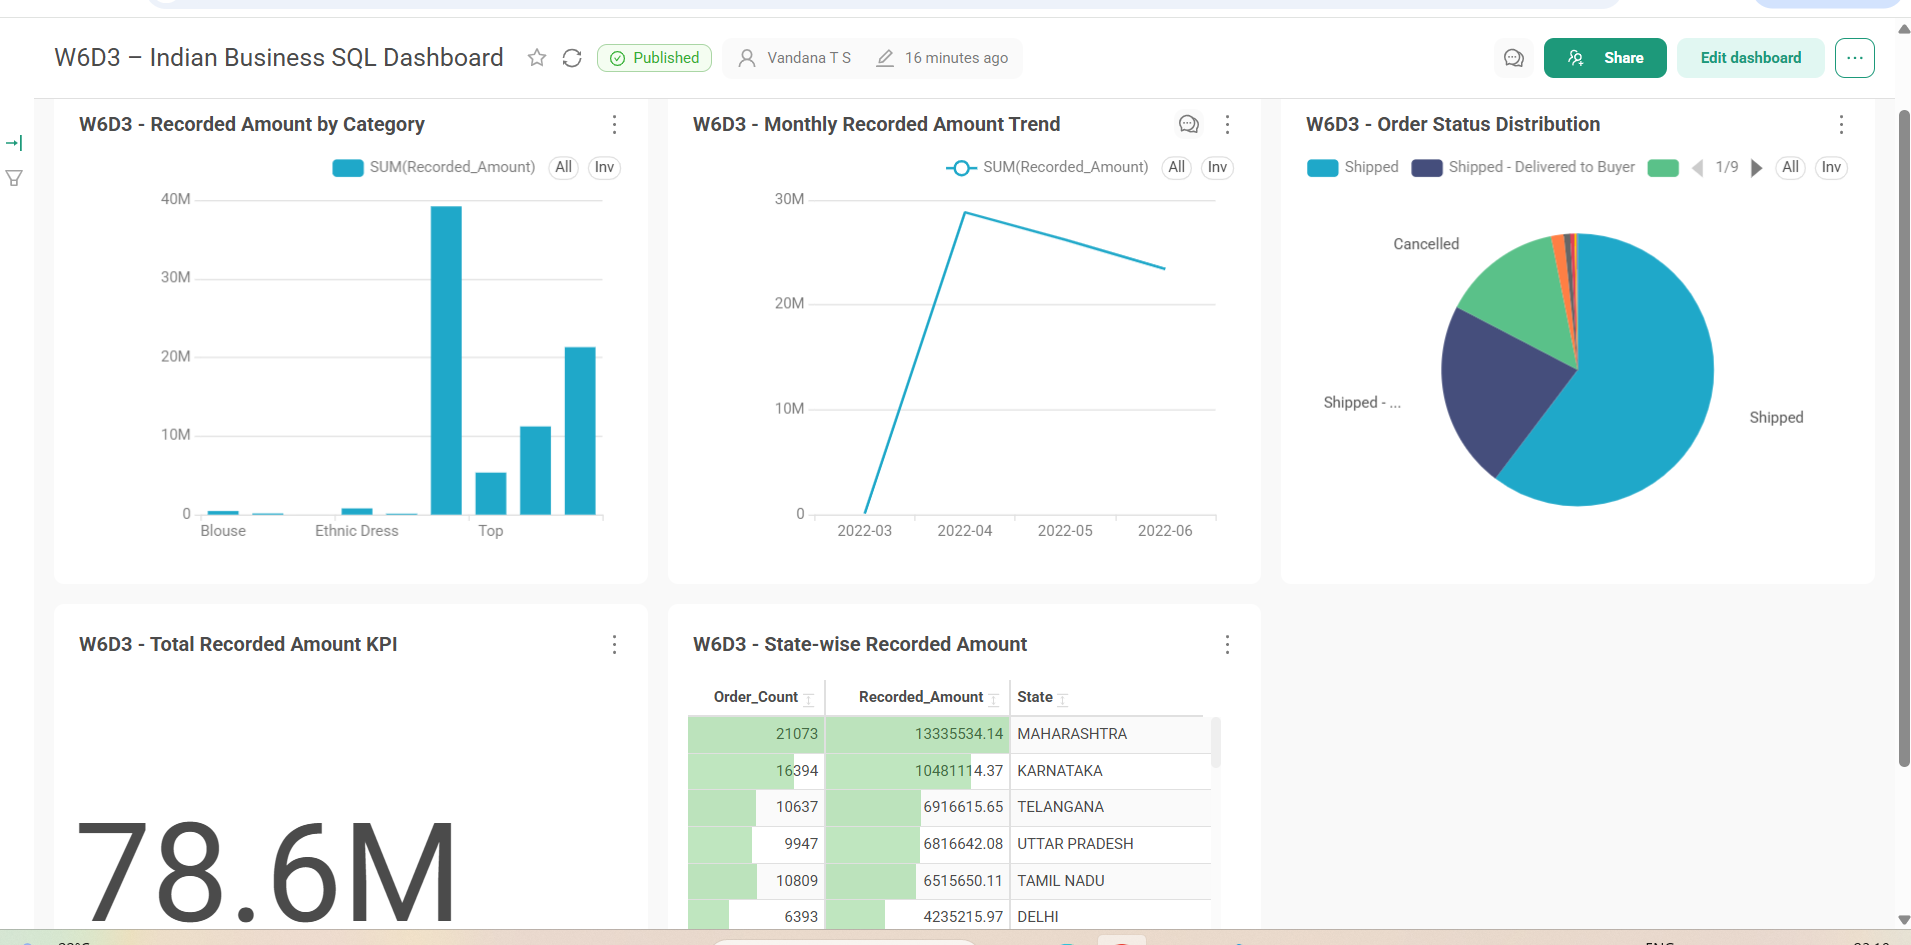
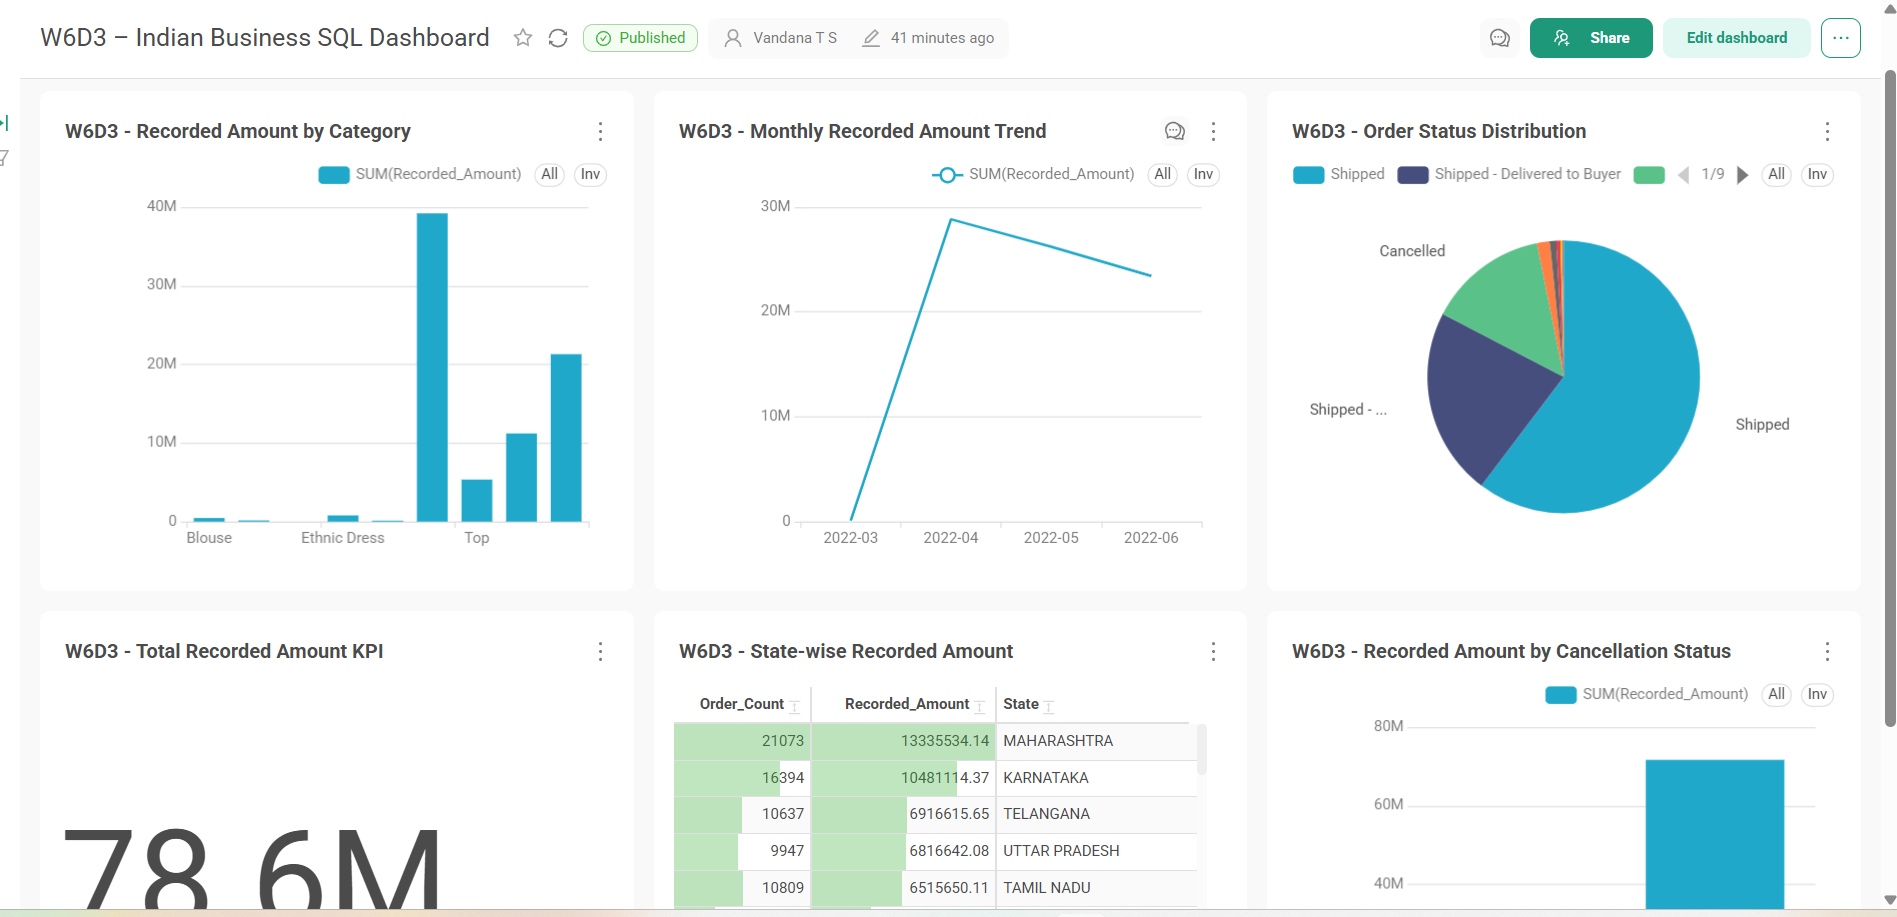
docs: update W6D3 Superset dashboard evidence

diff --git a/reports/w6d3/README.md b/reports/w6d3/README.md
@@ -4,7 +4,7 @@
 
 Create a stakeholder-facing Business Intelligence dashboard using SQL-aggregated Indian business sales data and Apache Superset through the hosted Preset platform.
 
-The dashboard presents key business metrics and trends through five visualizations.
+The dashboard presents key business metrics and trends through six visualizations.
 
 ## 2. Dataset Overview
 
@@ -22,8 +22,9 @@ The SQL workflow is implemented using:
 
 - `reports/w6d3/sql_dashboard.py`
 - `reports/w6d3/dashboard_queries.sql`
+- `reports/w6d3/cancellation_analysis.sql` (supplementary analysis)
 
-The Python script executes the SQL aggregation queries, exports dashboard-ready CSV files and validates the results.
+The Python script executes the original SQL aggregation queries, exports dashboard-ready CSV files and validates the results. The cancellation analysis was generated separately and does not modify the original Python pipeline.
 
 ### Run the SQL workflow
 
@@ -36,7 +37,7 @@ $root = "$HOME\Desktop\sql-fundamentals"
 
 ### Generated CSV datasets
 
-The following files are generated in `reports/w6d3/outputs/`:
+The original workflow generates:
 
 | File | Purpose |
 |---|---|
@@ -46,9 +47,13 @@ The following files are generated in `reports/w6d3/outputs/`:
 | `kpi_metrics.csv` | Overall Recorded Amount KPI |
 | `state_amount.csv` | State-wise Recorded Amount |
 
+Supplementary output:
+
+- `cancellation_analysis.csv` - Cancelled vs non-cancelled recorded amounts and missing Amount values.
+
 ## 4. SQL Validation Results
 
-The SQL workflow completed successfully.
+The original SQL workflow completed successfully.
 
 | Validation | Result |
 |---|---:|
@@ -72,7 +77,16 @@ The SQL workflow completed successfully.
 | State | 69 |
 | KPI | 1 |
 
-**Validation status:** PASS - all expected dataset checks succeeded.
+**Original workflow validation:** PASS.
+
+### Supplementary cancellation analysis
+
+| Order group | Rows | Recorded Amount (INR) | Missing Amount rows |
+|---|---:|---:|---:|
+| Cancelled | 18,332 | 6,919,284.30 | 7,566 |
+| Non-Cancelled | 110,643 | 71,673,394.00 | 229 |
+
+These figures group the source records by cancellation status. Non-cancelled Recorded Amount is not verified revenue.
 
 ## 5. Hosted Apache Superset Dashboard
 
@@ -86,13 +100,14 @@ https://de37bc60.us1a.app.preset.io/superset/dashboard/10/?native_filters_key=M9
 
 ### Uploaded datasets
 
-Five separate datasets were uploaded using unique W6D3 prefixes to avoid conflicts with existing W11D3 datasets.
+Six datasets were uploaded using unique W6D3 prefixes:
 
 - `w6d3_category_amount`
 - `w6d3_monthly_amount`
 - `w6d3_order_status`
 - `w6d3_kpi_metrics`
 - `w6d3_state_amount`
+- `w6d3_cancellation_analysis`
 
 ### Dashboard visualizations
 
@@ -103,59 +118,65 @@ Five separate datasets were uploaded using unique W6D3 prefixes to avoid conflic
 | Order Status Distribution | Pie chart | `w6d3_order_status` | SUM(Order_Count) |
 | Total Recorded Amount KPI | Big Number | `w6d3_kpi_metrics` | MAX(Recorded_Amount_Total) |
 | State-wise Recorded Amount | Table | `w6d3_state_amount` | State-level records |
+| Recorded Amount by Cancellation Status | Bar chart | `w6d3_cancellation_analysis` | SUM(Recorded_Amount) |
 
-The monthly chart uses ascending month order. The KPI uses MAX because the summary dataset contains one row. The state table displays State, Order_Count and Recorded_Amount.
+The monthly chart uses ascending month order. The KPI uses MAX because the summary dataset contains one row.
 
 ## 6. Evidence
 
 The following evidence files are maintained in `reports/w6d3/outputs/`:
 
-- `W6D3_Preset_Indian_Business_SQL_Dashboard.png` - hosted Preset dashboard screenshot.
+- `W6D3_Preset_Indian_Business_SQL_Dashboard.png` - updated hosted Preset dashboard screenshot showing six charts.
 - `looker_studio_dashboard.png` - existing Looker Studio dashboard image.
+- `cancellation_analysis.csv` - supplementary cancellation analysis output.
+
+Additional SQL evidence:
+
+- `reports/w6d3/cancellation_analysis.sql`
 
 The Preset screenshot was captured using Windows Snipping Tool.
 
 ## 7. Business Interpretation
 
-The dashboard provides an overview of recorded sales amounts across categories, months, order statuses and states.
-
-Key observations:
-
 - The dataset contains 128,975 source records.
-- Recorded Amount totals INR 78,592,678.30 for rows with available Amount values.
+- Total Recorded Amount is INR 78,592,678.30 for rows with available Amount values.
 - Amount coverage is 93.96%.
 - There are 7,795 rows with missing Amount values.
-- The order-status dataset contains 13 distinct statuses.
+- The dataset contains 13 distinct order statuses.
 - The monthly aggregation covers four months.
+- The supplementary analysis separates recorded amounts associated with cancelled and non-cancelled statuses.
 
 ## 8. Data Interpretation and Limitations
 
-- Recorded Amount should not be interpreted as verified net revenue or profit.
+- Recorded Amount must not be interpreted as verified net revenue or profit.
+- The overall KPI includes amounts from cancelled-status rows.
 - Rows with missing Amount values are excluded from amount-based aggregations.
 - Order-status counts include all source rows, including cancelled orders.
+- Non-cancelled Recorded Amount is not proof of completed or realized revenue.
 - The state aggregation contains 69 rows because one state has no non-null Amount available for the amount-based aggregation.
-- The KPI represents the total Recorded Amount from the available Amount values.
 - Dashboard access depends on Preset workspace permissions and service availability.
 
 ## 9. Review and Improvement Status
 
-- CIA mentor review: Pending.
-- Peer review: Pending.
-- Feedback-based improvement: Pending.
-
-These activities will be documented after they have actually been completed.
+- CIA mentor review: Completed once, based on supplied summaries and metadata.
+- The CIA review did not visually inspect or interact with the hosted Preset dashboard.
+- No explicit PASS, PASS WITH IMPROVEMENTS or FAIL verdict was provided.
+- Feedback highlighted the need to distinguish total Recorded Amount from non-cancelled Recorded Amount.
+- Supplementary cancellation analysis was added and a sixth chart was added to the existing W6D3 dashboard.
+- Human peer review: Pending; no peer approval is claimed.
 
 ## 10. Completion Summary
 
 Completed:
 
-- SQL query implementation.
-- Five dashboard-ready CSV exports.
+- SQL query implementation and validation.
+- Five original dashboard-ready CSV exports.
+- Supplementary cancellation SQL and CSV analysis.
 - Source-to-SQL row-count validation.
 - Recorded Amount and missing-value validation.
-- Five uploaded Preset datasets.
-- Five Superset dashboard visualizations.
-- Hosted dashboard creation.
-- Dashboard screenshot evidence.
+- Six uploaded Preset datasets.
+- Six Superset dashboard visualizations.
+- Hosted dashboard creation and screenshot evidence.
+- One CIA mentor review and feedback-based improvement.
 
-**Overall status:** SQL processing, output validation and hosted Preset dashboard creation completed. Review activities remain pending.
+**Overall status:** SQL processing, output validation, supplementary cancellation analysis and hosted Preset dashboard completed. Human peer review remains pending.

diff --git a/work_log.md b/work_log.md
@@ -1,4 +1,4 @@
-# Week 1 Day 1 â€” SQL Fundamentals
+# Week 1 Day 1 â€” SQL Fundamentals
 
 ## Practical Tasks Completed
 
@@ -2576,12 +2576,13 @@ Completed two CIA mentor interactions:
 ### Implementation
 
 - Created `reports/w6d3/sql_dashboard.py` to execute SQL queries, export dashboard datasets and validate results.
-- Created `reports/w6d3/dashboard_queries.sql` containing the SQL aggregation queries.
-- Generated five CSV datasets for category, monthly, order-status, KPI and state-level analysis.
+- Created `reports/w6d3/dashboard_queries.sql` containing the original SQL aggregation queries.
+- Generated five original CSV datasets for category, monthly, order-status, KPI and state-level analysis.
 - Reused the hosted Preset workspace and its existing `File Uploads` database and `main` schema.
-- Uploaded five separate W6D3 datasets using unique dataset names to avoid conflicts with W11D3.
-- Created five Superset charts: category bar chart, monthly line chart, order-status pie chart, recorded-amount Big Number KPI and state-wise table.
-- Added all five charts to the `W6D3 – Indian Business SQL Dashboard`.
+- Uploaded six W6D3 datasets using unique dataset names to avoid conflicts with W11D3.
+- Created six Superset charts: category bar chart, monthly line chart, order-status pie chart, recorded-amount Big Number KPI, state-wise table and cancellation-status bar chart.
+- Added all six charts to the existing `W6D3 – Indian Business SQL Dashboard`.
+- Added supplementary cancellation analysis in `reports/w6d3/cancellation_analysis.sql` and `reports/w6d3/outputs/cancellation_analysis.csv`. The original Python pipeline was not modified.
 
 ### Verified Results
 
@@ -2594,29 +2595,42 @@ Completed two CIA mentor interactions:
 - Distinct order statuses: 13.
 - Distinct categories: 9.
 - Distinct states: 70.
-- SQL output row counts: category 9, monthly 4, order status 13, state 69 and KPI 1.
-- SQL validation completed successfully.
+- Original SQL output row counts: category 9, monthly 4, order status 13, state 69 and KPI 1.
+- Original SQL validation completed successfully.
+
+### Supplementary Cancellation Analysis
+
+| Order group   |    Rows | Recorded Amount (INR) | Missing Amount rows |
+| ------------- | ------: | --------------------: | ------------------: |
+| Cancelled     |  18,332 |          6,919,284.30 |               7,566 |
+| Non-Cancelled | 110,643 |         71,673,394.00 |                 229 |
+
+These figures group source records by order status. Non-cancelled Recorded Amount is not verified revenue.
 
 ### Hosted Preset Dashboard
 
 - Dashboard: W6D3 – Indian Business SQL Dashboard.
 - Dashboard URL: https://de37bc60.us1a.app.preset.io/superset/dashboard/10/?native_filters_key=M9Z7S8s0yYL2WbQctWa07g
-- Captured a dashboard screenshot using Windows Snipping Tool.
+- Captured an updated dashboard screenshot using Windows Snipping Tool.
 - Screenshot evidence: `reports/w6d3/outputs/W6D3_Preset_Indian_Business_SQL_Dashboard.png`.
 
 ### Data Interpretation and Limitations
 
 - Recorded Amount is not verified net revenue or profit.
-- Missing Amount values were excluded from amount-based aggregations.
+- The overall KPI includes amounts from cancelled-status rows.
+- Missing Amount values are excluded from amount-based aggregations.
 - Order-status counts include all source rows, including cancelled orders.
+- Non-cancelled Recorded Amount does not establish realized revenue.
 - The state aggregation contains 69 rows because one state has no non-null Amount available for the amount-based aggregation.
 - Dashboard access depends on Preset workspace permissions and service availability.
 
 ### Review and Improvement Status
 
-- CIA mentor review: pending.
-- Peer review: pending.
-- Feedback-based improvement: pending.
-- These activities will be recorded after they are actually completed.
+- CIA mentor review: completed once, based on supplied summaries and metadata.
+- The CIA review did not visually inspect or interact with the hosted Preset dashboard.
+- No explicit PASS, PASS WITH IMPROVEMENTS or FAIL verdict was provided.
+- Feedback highlighted the need to distinguish total Recorded Amount from non-cancelled Recorded Amount.
+- Supplementary cancellation analysis was added and a sixth chart was added to the existing W6D3 dashboard.
+- Human peer review: pending; no peer approval is claimed.
 
-**Status:** SQL processing, output validation, five hosted Preset datasets, five dashboard charts and screenshot evidence completed. Review activities remain pending.
+**Status:** SQL processing, output validation, six hosted Preset datasets, six dashboard charts, supplementary cancellation analysis and screenshot evidence completed. Human peer review remains pending.
